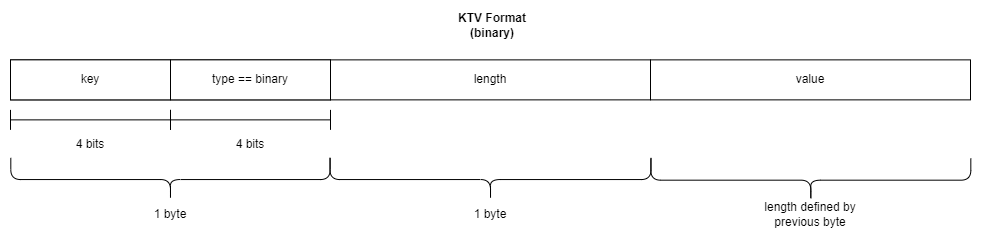
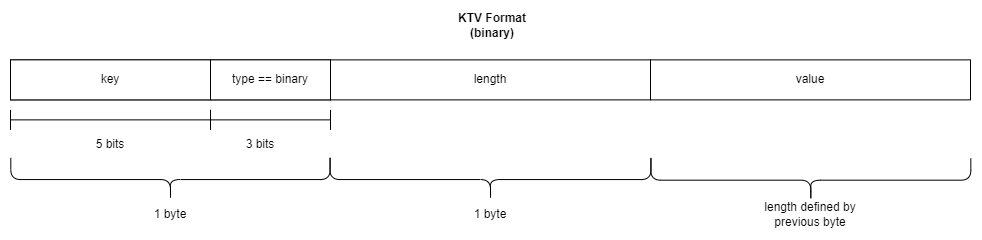
increase key size, add seq num

diff --git a/spec.md b/spec.md
@@ -39,13 +39,10 @@ The versions are outlined below for verbosity.
 | Version | Binary | Notes |
 |---------|--------|-------|
 | undef | 000 | Will match any packet with any version, used for development |
-| 1 | 001 | 
-| 2 | 010 |
-| 3 | 011 |
-| 4 | 100 |
-| 5 | 101 |
-| 6 | 110 |
-| 7 | 111 |
+| 1 | 01 | 
+| 2 | 10 |
+| 3 | 11 |
+
 
 ### RTR
 
@@ -63,7 +60,7 @@ For example, if the user is requesting key 1 with type uint8, and key 6 with typ
 
 ### Number of Keys
 
-**Type:** uint4
+**Type:** uint5
 
 **Description:** The number of KTVs within this packet. This, along with the rtr status, is used to determine the length of the packet.
 
@@ -82,32 +79,30 @@ A binary typed KTV has the following packet format
 
 ### Key
 
-**Type:** 4-bit enum
+**Type:** uint5
 
 **Description:** Unique key to identify information
 
-There are 16 available unique keys for the user to use. 0-15 inclusive. Each key can only exist once in each packet.
+There are 32 available unique keys for the user to use. 0-31 inclusive. Each key can only exist once in each packet.
 
 ### Type
 
-**Type:** 4-bit enum
+**Type:** 3-bit enum
 
 **Description:** The data type the following value should be interpreted as.
 
-There are 10 types available for the user to use. These are outlined below. Note that the 0 type is binary and allows the user to send up to 2^8 number of bytes in a single value blob. Therefore, if the user used all 15 keys as binary, they would be able to send 16*2^8 number of bytes of user data.
+There are 8 types available for the user to use. These are outlined below. Note that the 0 type is binary and allows the user to send up to 2^8 number of bytes in a single value blob. Therefore, if the user used all 32 keys as binary, they would be able to send 32*2^8 number of bytes of user data. Both clients must be configured to support this.
 
 | enum  (decimal) | enum (binary) | type| length (bytes) |
-|-------|-------|-----------|-----|
-| 0     | 0000  | binary    | N/A |
-| 1     | 0001  | uint8     | 1   |
-| 2     | 0010  | uint16    | 2   |
-| 3     | 0011  | int16     | 2   |
-| 4     | 0100  | uint32    | 4   |
-| 5     | 0101  | int32     | 4   |
-| 6     | 0110  | uint64    | 8   |
-| 7     | 0111  | int64     | 8   |
-| 8     | 1000  | float     | 4   |
-| 9-15  | reserved  | reserved    | reserved|
+|-------|------|-----------|-----|
+| 0     | 000  | binary    | N/A |
+| 1     | 001  | uint8     | 1   |
+| 2     | 010  | uint16    | 2   |
+| 3     | 011  | int16     | 2   |
+| 4     | 100  | uint32    | 4   |
+| 5     | 101  | int32     | 4   |
+| 7     | 110  | float     | 4   |
+| 8     | 111  | double    | 4   |
 
 
 ### Value
